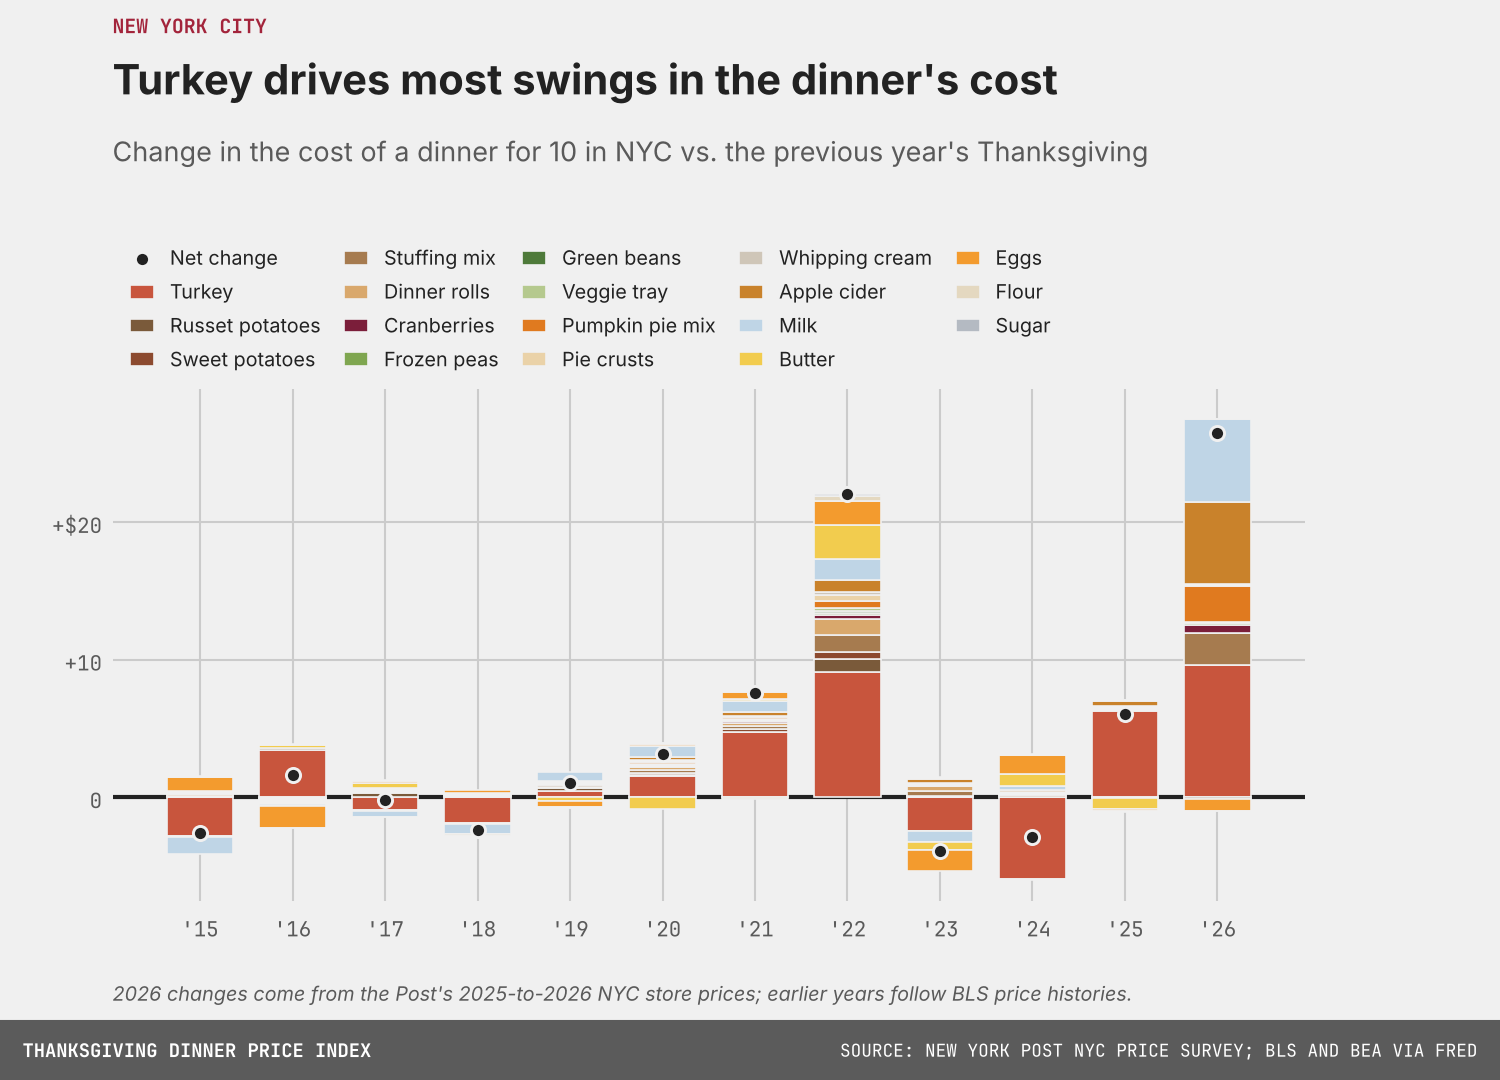
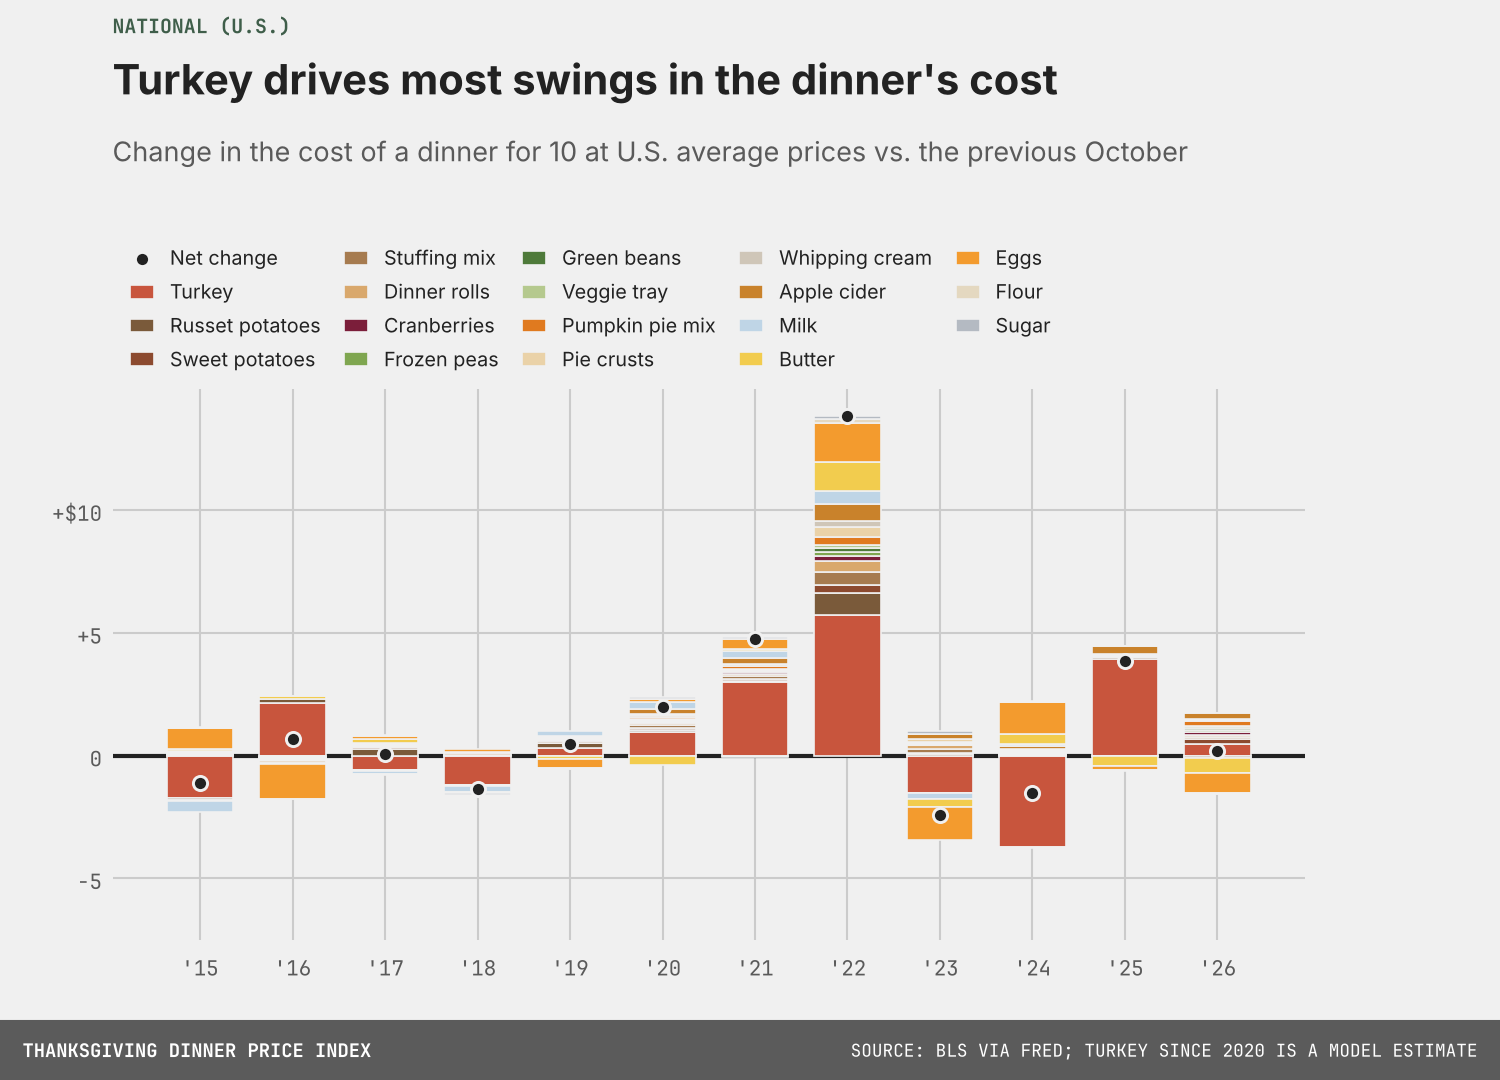
Charts 3 and 7 back to national
Chart 3 shows item contributions at U.S. average prices; chart 7 shows
hours at the federal minimum wage for the U.S.-priced dinner. Removes
the NYC minimum wage series. README updated; only chart 1 uses NYC
prices now.

Claude-Session: https://claude.ai/code/session_015UrztArHpAPPRd1ooHHwA1

diff --git a/deep_dive.py b/deep_dive.py
@@ -124,25 +124,11 @@ print(table[[c for c in table.columns if c.startswith("dinner")]].round(1).to_st
 minwage = fred("FEDMINNFRWG", 10)
 wage = pd.DataFrame({"dinner": dinner, "federal_min_wage": minwage.reindex(dinner.index)})
 wage["hours_at_federal_min"] = wage.dinner / wage.federal_min_wage
-# New York City minimum wage in October: the higher of the federal and New York State
-# rates (FRED STTMINWGNY), except 2017-2023, when NYC's rate for employers with 11+ workers
-# (NY Labor Law 652) was above the statewide figure FRED reports: $11 from Dec 31, 2016,
-# $13 from Dec 31, 2017, $15 from Dec 31, 2018. Small NYC employers phased in a year later.
-ny_state = fred("STTMINWGNY", 1)
-NYC_OVERRIDE = {2017: 11.00, 2018: 13.00, 2019: 15.00, 2020: 15.00, 2021: 15.00, 2022: 15.00, 2023: 15.00}
-nyc_min = pd.concat([minwage, ny_state.reindex(minwage.index)], axis=1).max(axis=1)
-for yr, v in NYC_OVERRIDE.items():
-    nyc_min[yr] = v
-wage["nyc_min_wage"] = nyc_min.reindex(wage.index)
-wage["dinner_nyc"] = summary["basket_cost_nyc"].reindex(wage.index)
-wage["hours_at_nyc_min"] = wage.dinner_nyc / wage.nyc_min_wage
 wage.round(2).to_csv(OUT / "deep_dive_wages.csv")
 print("\n== E. Low-wage workers ==")
 print(wage.loc[[1995, 2000, 2005, 2009, 2010, 2015, 2019, 2021, 2022, 2023, 2024, 2025, 2026]].round(2).to_string())
 print("hours at federal minimum, 2026 rank (1 = most hours):",
       int(wage.hours_at_federal_min.rank(ascending=False).loc[2026]), "of", wage.hours_at_federal_min.notna().sum())
-print("hours at NYC minimum, 2026 rank (1 = most hours):",
-      int(wage.hours_at_nyc_min.rank(ascending=False).loc[2026]), "of", wage.hours_at_nyc_min.notna().sum())
 
 # ---------------- F. Prices, rent and the minimum wage ----------------
 cpi_m = fred("CPIAUCSL")
@@ -216,23 +202,18 @@ cs.finish_geo("us", fig, "The squeeze is widest at the bottom",
           "BLS Consumer Expenditure Survey via FRED", OUT / "6_who_is_squeezed.png",
           note="Right panel omits married couples with young children (much higher incomes and a one-year spike in 2019).")
 
-w = wage.dropna(subset=["hours_at_nyc_min"])
-h = w.hours_at_nyc_min
+w = wage.dropna(subset=["hours_at_federal_min"])
+h = w.hours_at_federal_min
 fig, ax = cs.figure()
-fig.subplots_adjust(right=0.85)
-ax.set_ylim(0, 2 * int(np.ceil(h.max() * 1.2 / 2)))
+ax.set_ylim(0, 2 * int(np.ceil(h.max() * 1.15 / 2)))
 ax.set_xlim(h.index.min() - 1, h.index.max() + 1)
 ax.plot(h.index, h, color=cs.RED)
 ax.annotate(f"{h.iloc[-1]:.1f} hours", (h.index[-1], h.iloc[-1]), xytext=(0, 12), textcoords="offset points",
             ha="center", color=cs.RED, fontweight="semibold")
-# Mark NYC minimum wage steps
-for yr, label in [(2005, "$6.00"), (2014, "$8.00"), (2017, "$11"), (2019, "$15"), (2024, "$16")]:
-    ax.annotate(f"{label}", (yr, h[yr]), xytext=(0, -22), textcoords="offset points", ha="center",
-                fontsize=9, color=cs.MUTED, arrowprops=dict(arrowstyle="-", color=cs.MUTED, lw=0.8))
+ax.annotate("Federal minimum wage stuck\nat $7.25 since 2009", (2009, h[2009]), xytext=(2001, h.max() * 0.35),
+            fontsize=10, color=cs.MUTED, arrowprops=dict(arrowstyle="-", color=cs.MUTED, lw=1))
 cs.baseline(ax, 0)
 cs.unit_on_top(ax, suffix=" hrs")
-cs.finish_geo("nyc", fig, f"In NYC, Thanksgiving dinner takes {h.iloc[-1]:.0f} hours of minimum-wage work",
-          f"Hours at New York City's minimum wage to buy Thanksgiving dinner for 10 at NYC prices, {h.index.min()}-{h.index.max()}",
-          "New York Post NYC price survey; BLS and BEA via FRED; NY Labor Law 652", OUT / "7_low_wage.png",
-          note=f"Minimum wage for NYC employers with 11 or more workers; labels mark raises (now ${wage.nyc_min_wage.iloc[-1]:.2f}). "
-               "Dinner at NYC prices (see chart 1).")
+cs.finish_geo("us", fig, "For minimum-wage workers, the dinner costs more work",
+          f"Hours of work at the federal minimum wage to buy Thanksgiving dinner for 10, {h.index.min()}-{h.index.max()}",
+          "BLS via FRED, U.S. Department of Labor", OUT / "7_low_wage.png")

diff --git a/build_index.py b/build_index.py
@@ -319,7 +319,7 @@ cs.finish_geo("us", fig, f"Since 2019, the dinner's price has risen {verdict} pr
 
 # 3. YoY contributions
 # Recent years, all nine items
-recent = contrib_nyc.loc[2015:]
+recent = contrib.loc[2015:]
 # Every item, each colored to suggest the food itself (continuing items keep their colors)
 FOOD_COLORS = {
     "Turkey": "#C8553D",          # roast-turkey red
@@ -364,10 +364,9 @@ ax.set_yticks(ticks)
 ax.set_ylim(lo, hi)
 ax.yaxis.set_major_formatter(FuncFormatter(
     lambda v, _: f"+${v:g}" if v == max(ticks) else ("0" if v == 0 else f"{v:+g}")))
-cs.finish_geo("nyc", fig, "Turkey drives most swings in the dinner's cost",
-          "Change in the cost of a dinner for 10 in NYC vs. the previous year's Thanksgiving",
-          "New York Post NYC price survey; BLS and BEA via FRED", OUT / "3_contributions.png",
-          note="2026 changes come from the Post's 2025-to-2026 NYC store prices; earlier years follow BLS price histories.")
+cs.finish_geo("us", fig, "Turkey drives most swings in the dinner's cost",
+          "Change in the cost of a dinner for 10 at U.S. average prices vs. the previous October",
+          "BLS via FRED; turkey since 2020 is a model estimate", OUT / "3_contributions.png")
 
 # ---------------- Console report ----------------
 pd.set_option("display.width", 160)

diff --git a/README.md b/README.md
@@ -16,7 +16,7 @@ backtested time-series and machine-learning models.
   and the middle three fifths, 2025 is the highest share since at least 1995.
 - **The poorest gained nothing.** Before-tax income left after essentials stayed at about
   -$5,000 a year for the lowest fifth (2025 dollars); the top fifth gained about $14,500.
-- **In New York City the dinner costs $168 (charts 1 and 3).** Pricing 11 of the 18 items
+- **In New York City the dinner costs $168 (chart 1).** Pricing 11 of the 18 items
   from the New York Post's survey of NYC supermarkets puts the dinner for 10 at $167.77 in
   2026, about 1.9 times the U.S. average. It was $141.28 in 2025; the 19% one-year jump
   comes from the Post's store prices (milk +50%, cider +75%, pumpkin +43%, turkey +18%),
@@ -28,11 +28,9 @@ backtested time-series and machine-learning models.
 - **After essentials, the dinner takes a bigger bite for every income fifth.** For the
   lowest fifth it is 26.9% of a week's non-essential spending, vs 25.7% in 2019; for the
   second, 18.6% vs 16.7%; for the top fifth, 4.5% vs 4.4%.
-- **In NYC the dinner takes 9.9 hours of minimum-wage work (chart 7).** At New York City's
-  $17 minimum (employers with 11+ workers), the NYC-priced dinner takes 9.9 hours in 2026,
-  up from 7.3 in 2019 and 8.6 in 2025, but below the 12-16 hours of the years before the
-  city's raises began in 2017. At the federal $7.25, unchanged since 2009, the U.S.-priced
-  dinner takes 12.1 hours, the most in 32 years.
+- **Minimum-wage workers lost ground (chart 7).** At $7.25 since 2009, the federal minimum
+  buys 64% of what it did. The U.S.-priced dinner takes 12.1 hours of work, vs 9.2 in 2019,
+  the most in 32 years.
 - **Not in annual data:** the November 2025 shutdown delayed or cut SNAP benefits for
   millions of households just before Thanksgiving.
 
@@ -64,11 +62,11 @@ Each chart is labeled NYC or National above its headline.
 |---|---|---|
 | 1 Dinner cost | NYC, with U.S. average for comparison | New York Post NYC survey + BLS |
 | 2 Price indexes | National | BLS U.S. averages |
-| 3 Item contributions | NYC | New York Post NYC survey + BLS |
+| 3 Item contributions | National | BLS U.S. averages |
 | 4 Essentials, bottom vs top half | National | (household spending, no dinner) |
 | 5 A week of spending by income fifth | National | BLS U.S. averages |
 | 6 Household types | National | (household spending, no dinner) |
-| 7 Hours at the minimum wage | NYC | New York Post NYC survey + BLS; NYC minimum wage |
+| 7 Hours at the minimum wage | National | BLS U.S. averages; federal minimum wage |
 | 8-9 Turkey price model | National | BLS U.S. turkey price |
 
 ## Nowcasting the turkey price: ML and time-series ensemble (`turkey_price_ml_modeling.py`)
@@ -118,7 +116,7 @@ income: hours of work, share of income, and income left after essentials.
   frozen-pea price is used. Apple cider (1 gallon) starts from $6.99, the median of
   November 2026 grocery listings (Costco $6.99 and $5.51, Meijer $7.49, Price Chopper
   $6.99), and moves with the CPI for nonalcoholic beverages.
-- **New York City prices (charts 1 and 3):** 11 items use the New York Post's November 2025
+- **New York City prices (chart 1):** 11 items use the New York Post's November 2025
   and 2026 prices from six NYC supermarkets (`data/nyc_post_prices.csv`, total $160.30 and
   $184.43), scaled to this menu's quantities: turkey (Bell & Evans, per lb x 16), yams (x 3
   lb), Stove Top (x 14/6 for 14 oz), crescent rolls (x 1.5 for a dozen), cranberry sauce,
@@ -133,10 +131,7 @@ income: hours of work, share of income, and income left after essentials.
   not used. `nyc_item_sources.csv` shows each item's source and compares the Post's
   2025-2026 change with the BLS index change: the Post's are far larger (e.g. milk +50% vs
   +1%), so treat the one-year jump with care. The Post's turkey is a premium brand ($3.99/lb).
-  Chart 7 uses NYC's minimum wage: the higher of the federal and New York State rates
-  (FRED), with NYC's 2017-2023 rates for employers with 11+ workers from NY Labor Law 652
-  ($11, $13, then $15). The other affordability charts (4-6) stay on national prices and
-  incomes.
+  Charts 2-9 use national prices, incomes and the federal minimum wage.
 - **Why the full menu:** an earlier nine-item basket came to $61 in 2026, in line with the
   Farm Bureau's $58.63 "classic" menu, but both are spare (one dozen rolls and one pound of
   peas for ten people). The full menu ($87 in 2026) is closer to what a real Thanksgiving
